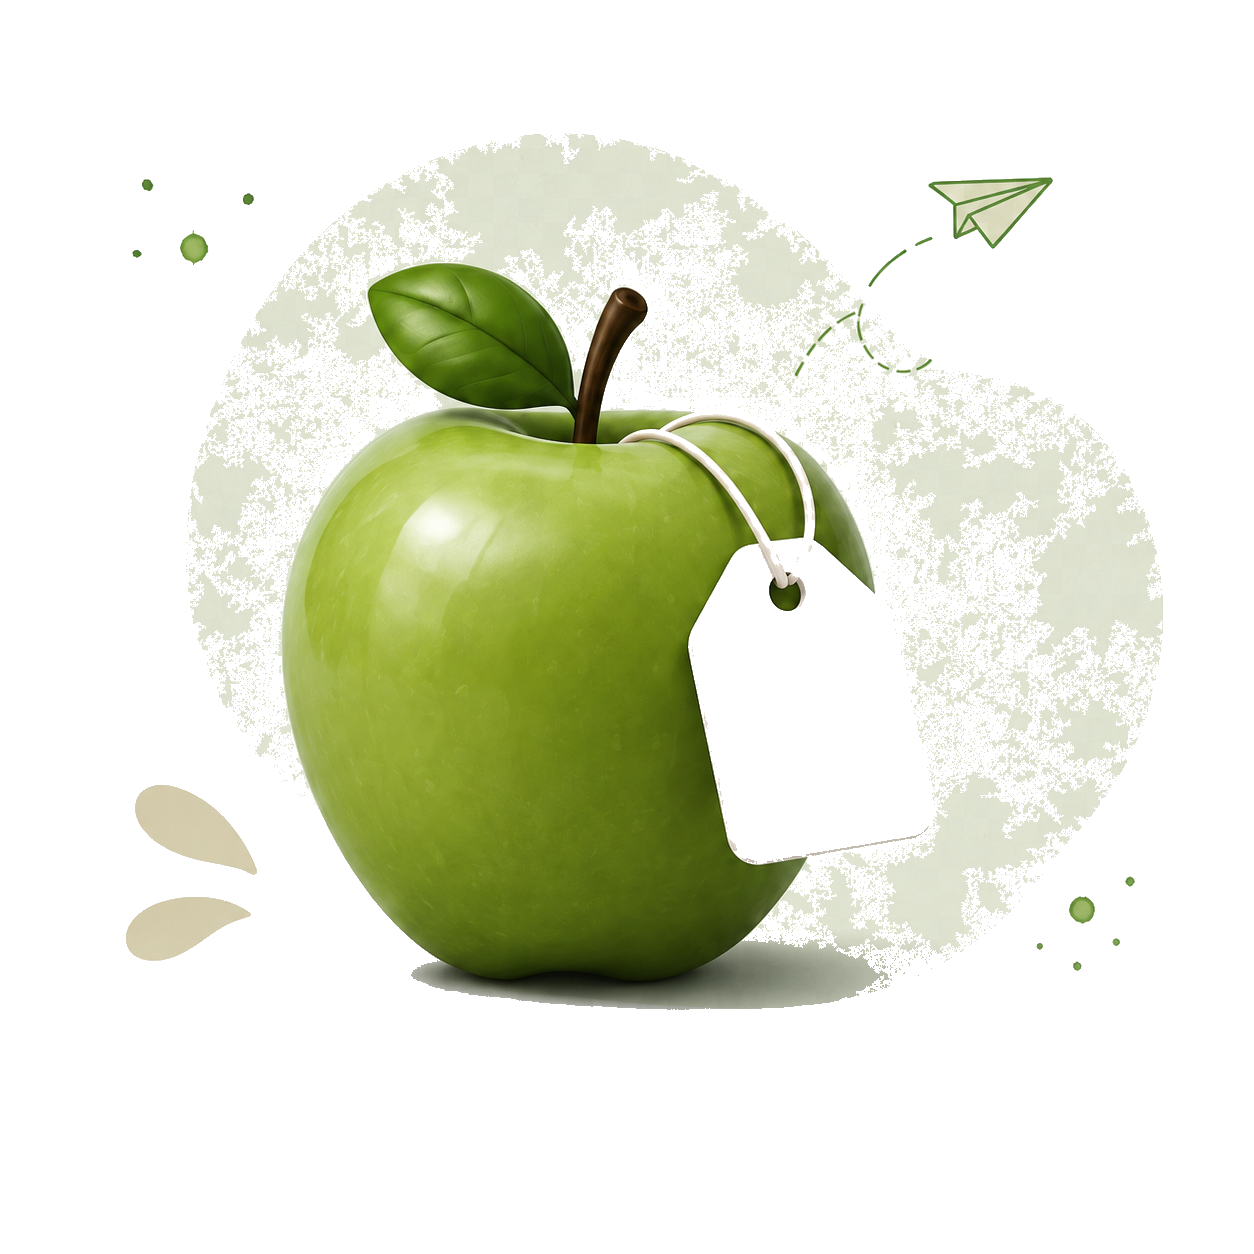
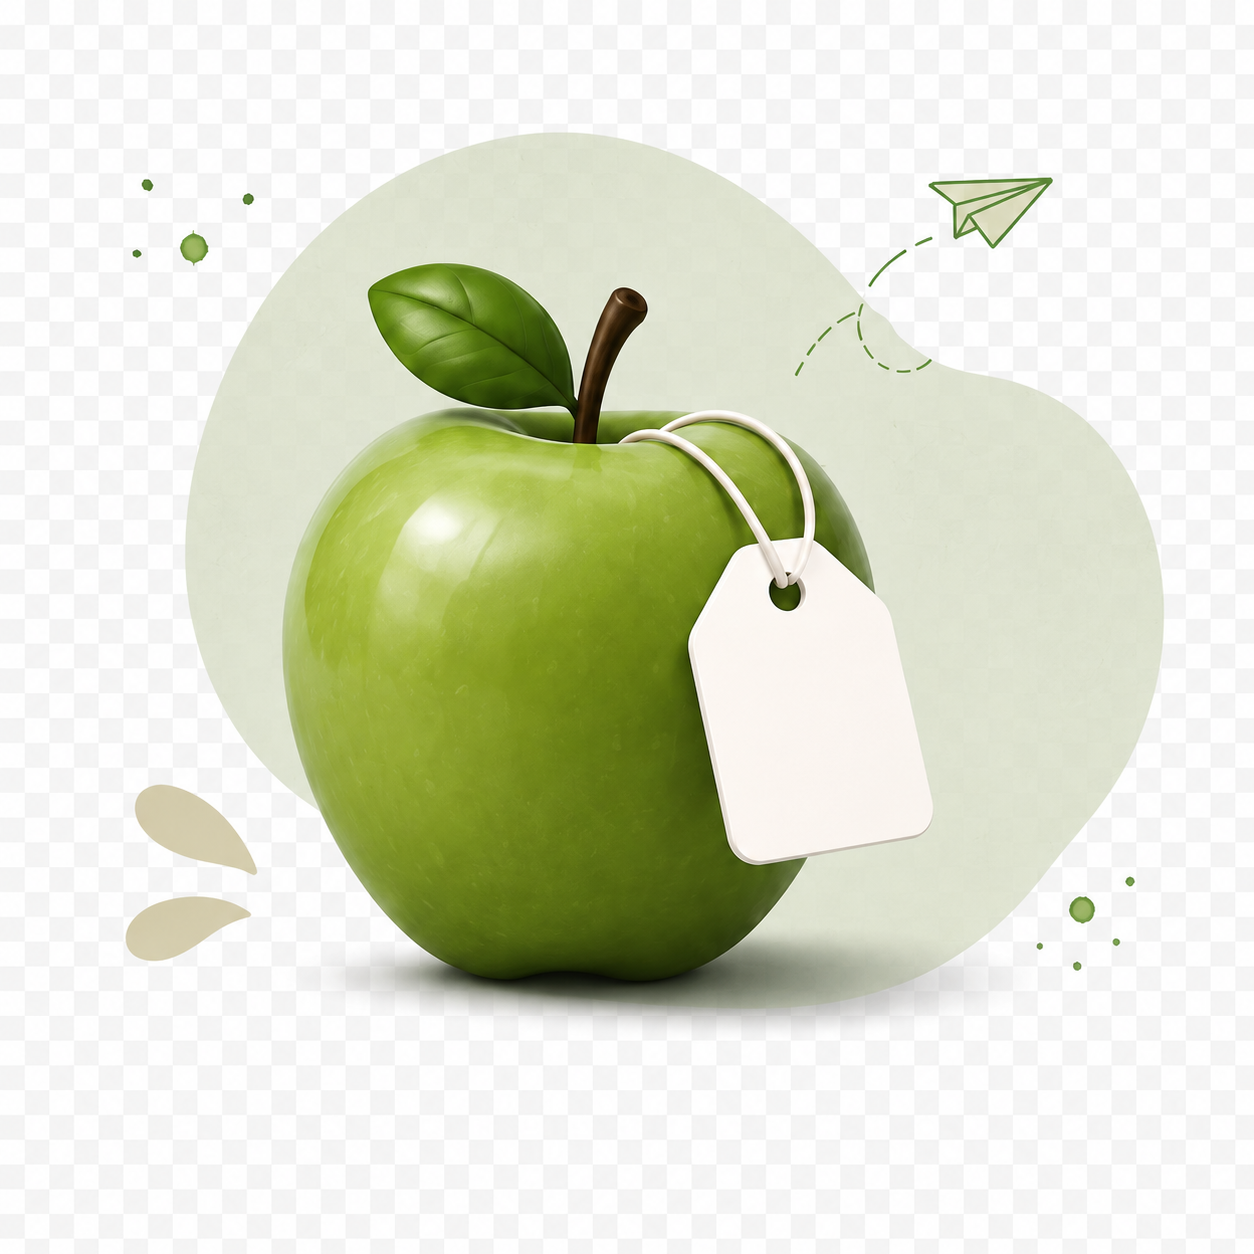
Restore original hero illustration and remove image artifacts

diff --git a/style.css b/style.css
@@ -267,33 +267,24 @@ svg {
 }
 
 .hero-illustration {
-  position: relative;
-  width: 430px;
-  height: 355px;
+  width: 100%;
+  max-width: 455px;
+  display: flex;
+  align-items: center;
+  justify-content: center;
   margin: -54px 0 0;
 }
 
 .hero-illustration img {
-  position: absolute;
-  inset: -44px -18px auto auto;
-  width: 455px;
-  height: 455px;
+  display: block;
+  width: 100%;
+  max-width: 455px;
+  height: auto;
   object-fit: contain;
-}
-
-.tag-text {
-  position: absolute;
-  right: 78px;
-  top: 191px;
-  transform: rotate(-8deg);
-  color: var(--color-text);
-  font-family: var(--font-display);
-  font-size: 28px;
-  font-weight: 800;
-  line-height: 0.85;
-  letter-spacing: 0;
-  text-align: center;
-  pointer-events: none;
+  filter: none;
+  opacity: 1;
+  mix-blend-mode: normal;
+  transform: none;
 }
 
 .trust-feature-band {
@@ -889,19 +880,11 @@ svg {
   }
 
   .hero-illustration {
-    width: 360px;
-    height: 330px;
+    max-width: 390px;
   }
 
   .hero-illustration img {
-    width: 390px;
-    height: 390px;
-  }
-
-  .tag-text {
-    right: 58px;
-    top: 174px;
-    font-size: 24px;
+    max-width: 390px;
   }
 
   .trust-feature-band {
@@ -1021,21 +1004,12 @@ svg {
 
   .hero-illustration {
     width: min(100%, 360px);
-    height: 300px;
+    max-width: 360px;
     margin: 0 auto;
   }
 
   .hero-illustration img {
-    inset: -45px auto auto 50%;
-    width: 360px;
-    height: 360px;
-    transform: translateX(-50%);
-  }
-
-  .tag-text {
-    right: 78px;
-    top: 158px;
-    font-size: 21px;
+    max-width: 360px;
   }
 
   .trust-feature-band {

diff --git a/index.html b/index.html
@@ -69,8 +69,7 @@
           </div>
 
           <figure class="hero-illustration">
-            <img src="src/assets/hero-illustration.png" alt="Green apple illustration with a paper tag">
-            <span class="tag-text" aria-hidden="true">apple<br>.nu</span>
+            <img src="src/assets/hero-illustration.png" alt="Apple.nu hero illustration">
           </figure>
         </div>
       </section>